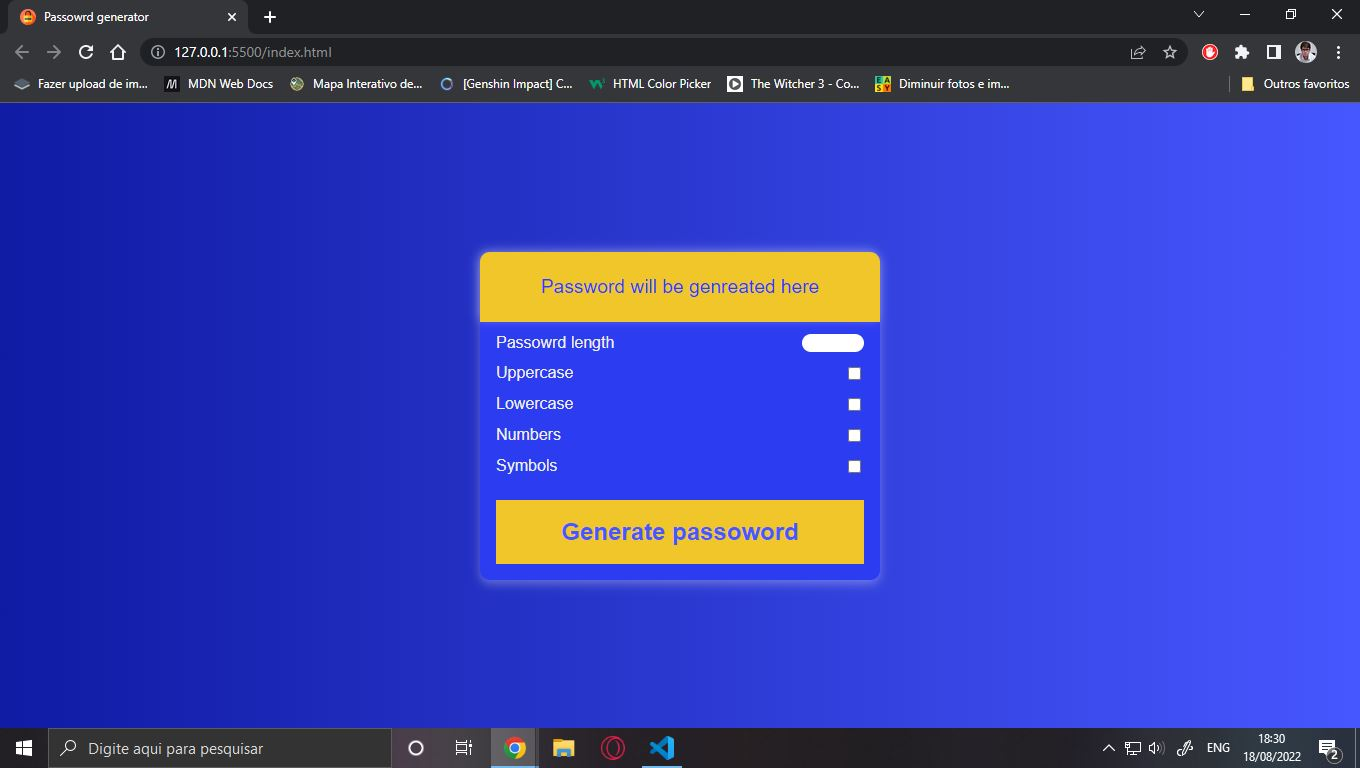
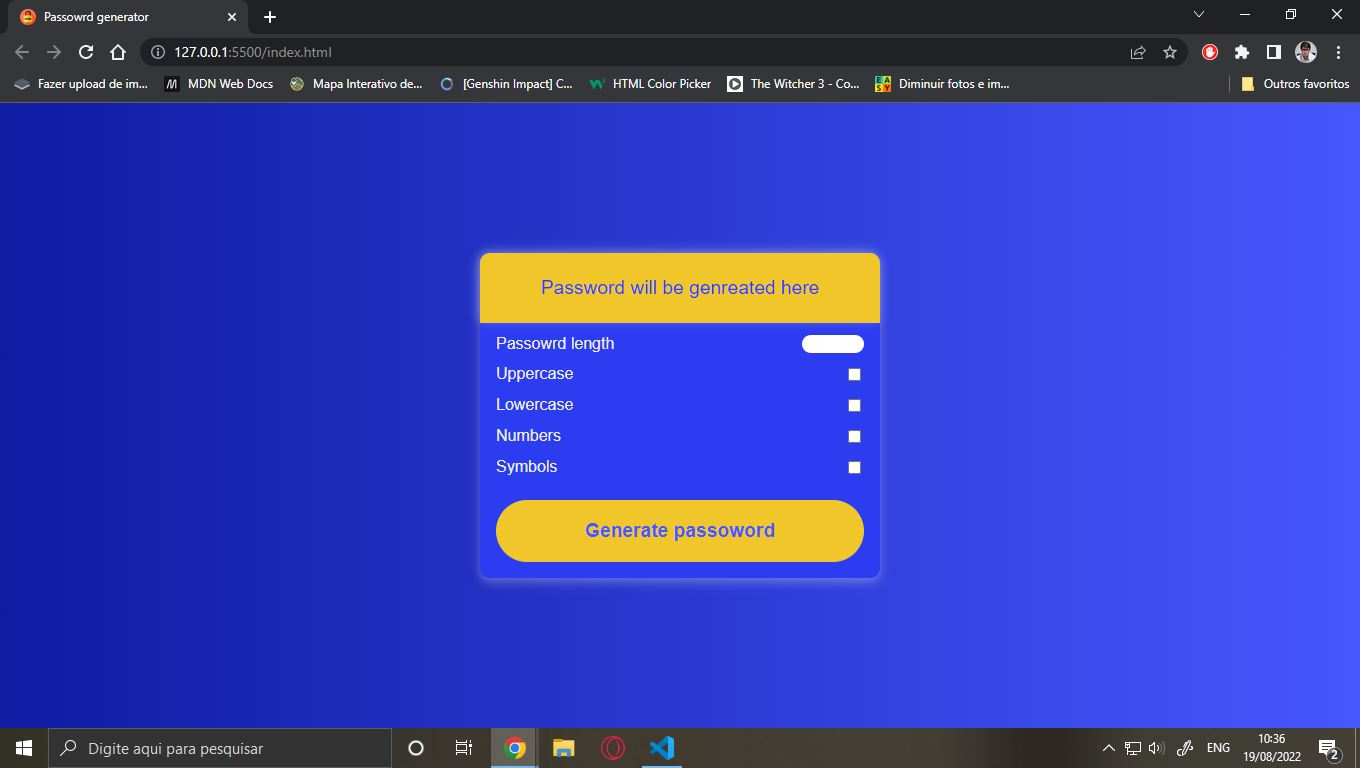
style atualizations

diff --git a/public/css/style.css b/public/css/style.css
@@ -80,12 +80,17 @@ input#len {
 .generate {
     background-color: #F0C62B;
     border: none;
+    border-radius: 50px;
     color: #4757FF;
     cursor: pointer;
     display: block;
-    font-size: 1.5em;
+    font-size: 1.2em;
     font-weight: bold;
-    padding: 0.75em;
-    margin-top: 1em;
+    padding: 20px;
+    margin-top: 1.2em;
     width: 100%;
+}
+
+.generate:hover {
+    box-shadow: 0px 0px 8px rgba(255, 255, 255, 0.5);
 }

diff --git a/index.html b/index.html
@@ -16,7 +16,7 @@
         <header class="pass-header">
             <div class="pass">
                 <span id="pass">Password will be genreated here</span>
-                <button class="copy" id="copy">Copiar</button>
+                <button class="copy" id="copy">Copy</button>
             </div>
         </header>
         
